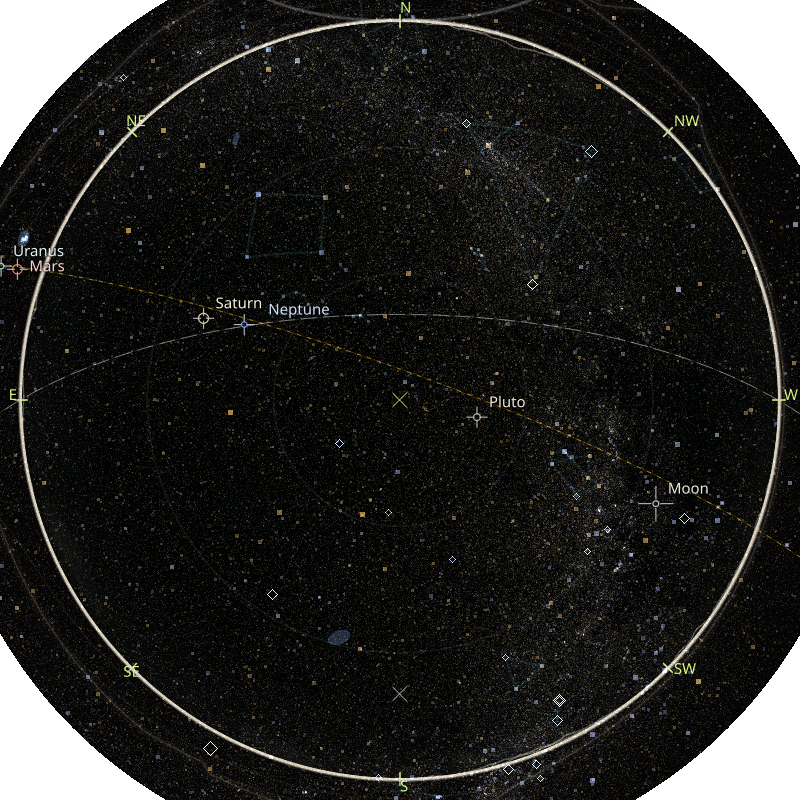
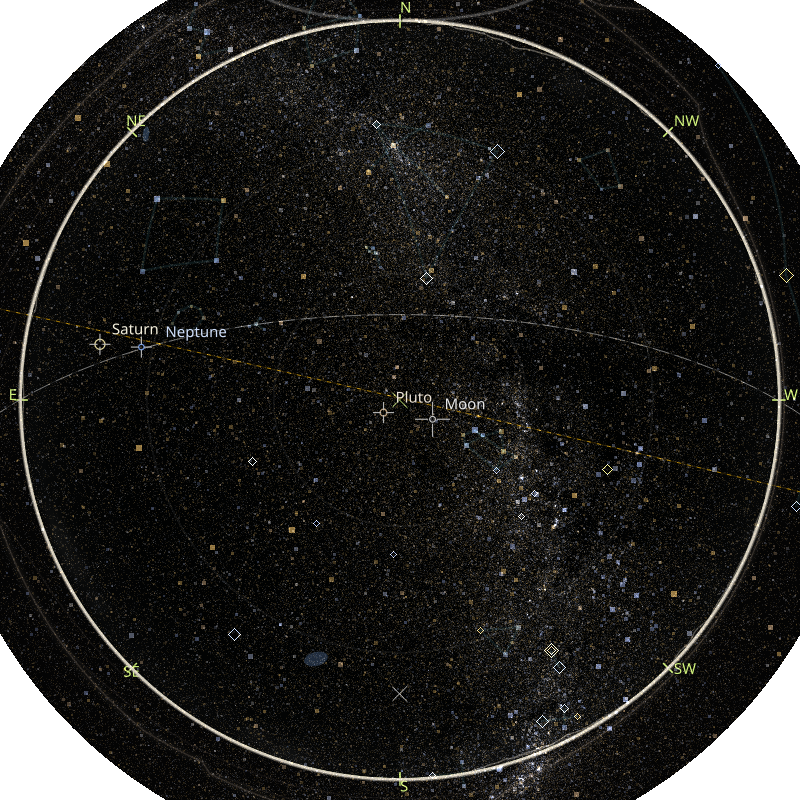
docs: update screenshot image

Changed region(s): [[0.0, 0.0, 1.0, 1.0]]

diff --git a/README_pypi.md b/README_pypi.md
@@ -10,7 +10,7 @@ Locations can be set by city or viewpoint name, direct coordinates, online place
 
 The first screenshot shows the asterism overlay and also serves as a terrain-horizon example.
 The second screenshot shows the aircraft overlay together with the never-rises region.
-The third screenshot shows a denser star field rendered with `-V10.5 -s4.5`.
+The third screenshot shows a denser star field rendered with `-V10.5 -s5`.
 The fourth screenshot shows `zstarview-export-image --search "C/2023 R1" --sixel` displaying a comet (`C/2023 R1 Panstarrs`) in a sixel terminal.
 
 <p align="center">
@@ -19,7 +19,7 @@ The fourth screenshot shows `zstarview-export-image --search "C/2023 R1" --sixel
 </p>
 
 <p align="center">
-  <img src="https://raw.githubusercontent.com/tos-kamiya/zstarview/main/docs/images/screenshot3.png" width="49%" alt="Screenshot showing a denser star field rendered with -V10.5 -s4.5">
+  <img src="https://raw.githubusercontent.com/tos-kamiya/zstarview/main/docs/images/screenshot3.png" width="49%" alt="Screenshot showing a denser star field rendered with -V10.5 -s5">
   <img src="https://raw.githubusercontent.com/tos-kamiya/zstarview/main/docs/images/screenshot6.png" width="49%" alt='Screenshot showing zstarview-export-image --search "C/2023 R1 Panstarrs" --sixel displaying the Thatcher comet (C/2023 R1 Panstarrs) in a sixel terminal'>
 </p>
 

diff --git a/README.md b/README.md
@@ -57,7 +57,7 @@ Locations can be set by city or viewpoint name, direct coordinates, online place
 
 The first screenshot shows the asterism overlay and also serves as a terrain-horizon example.
 The second screenshot shows the aircraft overlay together with the never-rises region.
-The third screenshot shows a denser star field rendered with `-V10.5 -s4.5`.
+The third screenshot shows a denser star field rendered with `-V10.5 -s5`.
 The fourth screenshot shows `zstarview-export-image "@34.68704549281618, 135.5244422242144" --search "torifune" -A5 --sixel` displaying Torifune in a sixel terminal.
 
   <p align="center">
@@ -66,7 +66,7 @@ The fourth screenshot shows `zstarview-export-image "@34.68704549281618, 135.524
   </p>
 
   <p align="center">
-    <img src="docs/images/screenshot3.png" alt="Screenshot showing a denser star field rendered with -V10.5 -s4.5" width="49%" />
+    <img src="docs/images/screenshot3.png" alt="Screenshot showing a denser star field rendered with -V10.5 -s5" width="49%" />
     <img src="docs/images/screenshot6.png" alt='Screenshot showing zstarview-export-image "@34.68704549281618, 135.5244422242144" --search "torifune" -A5 --sixel displaying Torifune in a sixel terminal' width="49%" />
   </p>
 

diff --git a/README_ja-JP.md b/README_ja-JP.md
@@ -65,7 +65,7 @@
   </p>
 
   <p align="center">
-    <img src="docs/images/screenshot3.png" alt="-V10.5 -s4.5 で高密度な星空を描画したスクリーンショット" width="49%" />
+    <img src="docs/images/screenshot3.png" alt="-V10.5 -s5 で高密度な星空を描画したスクリーンショット" width="49%" />
     <img src="docs/images/screenshot6.png" alt='`zstarview-export-image "@34.68704549281618, 135.5244422242144" --search "torifune" -A5 --sixel` で Torifune を表示したスクリーンショット' width="49%" />
   </p>
 
